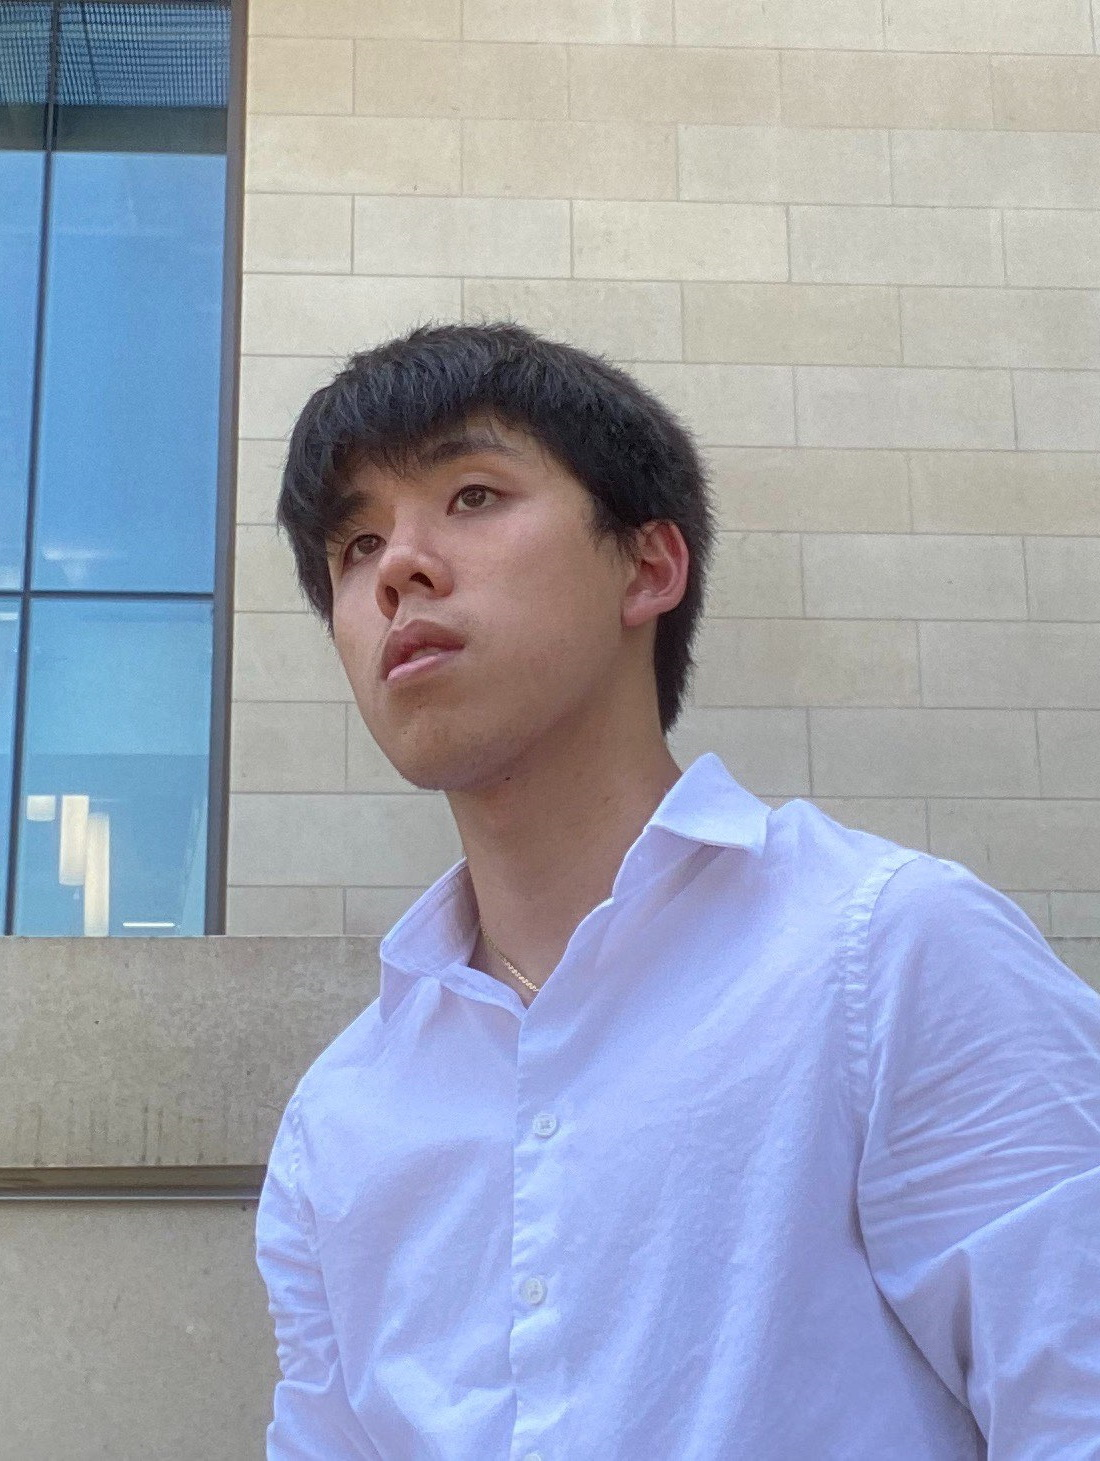
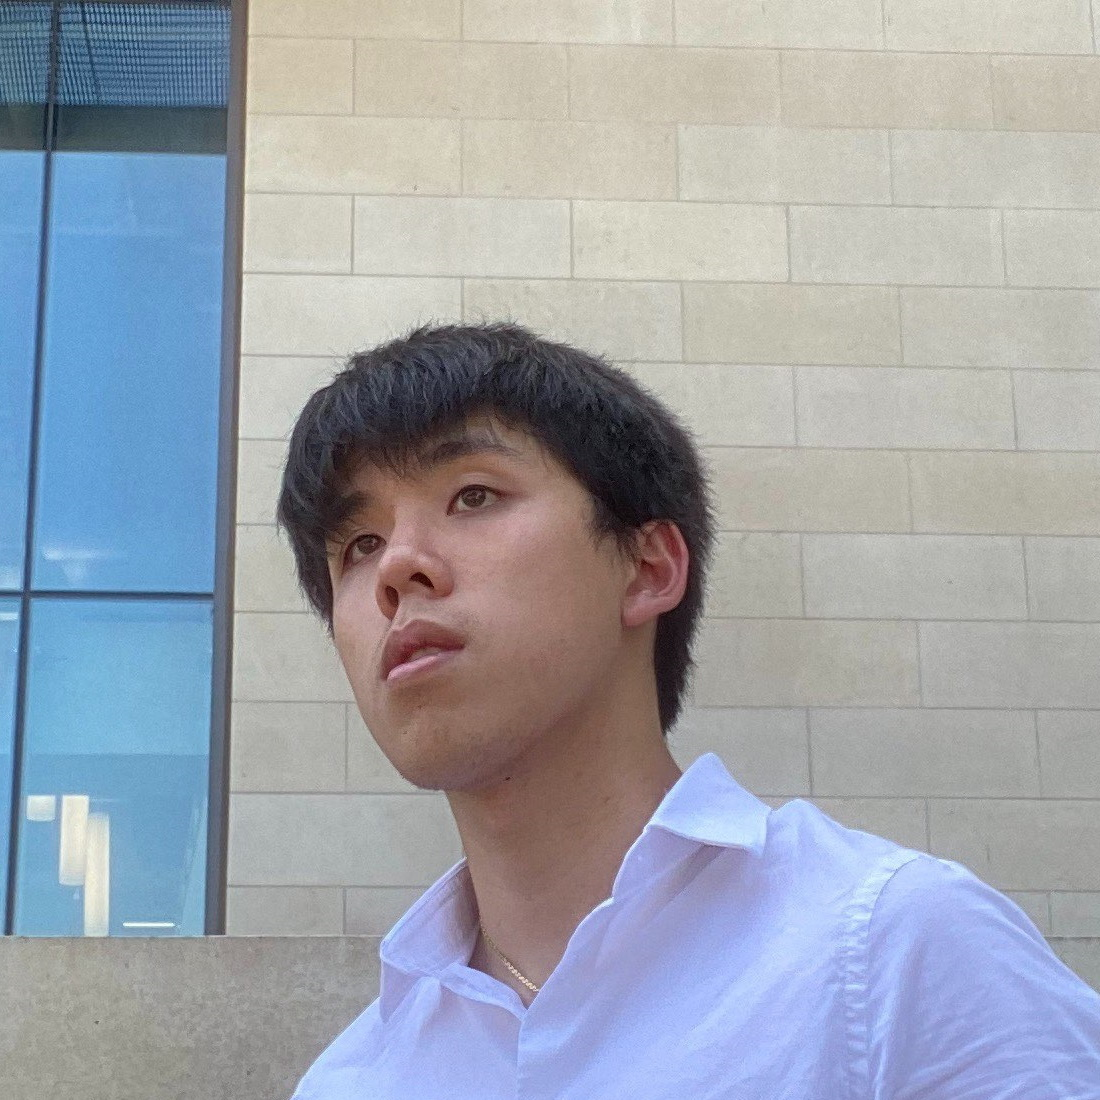
changed button and pic dim

diff --git a/index.html b/index.html
@@ -134,11 +134,14 @@
             <h2 class="section__heading">ABOUT ME</h2>
         </div>
         <div class="about-me__container">
+            <div class="about-me__para">
+                Hello! My name is Johnny Le. Lorem ipsum dolor sit amet, consectetur adipiscing elit, sed do eiusmod tempor incididunt ut labore et dolore magna aliqua. Ut enim ad minim veniam, quis nostrud exercitation ullamco laboris nisi ut aliquip ex ea commodo consequat. Duis aute irure dolor in reprehenderit in voluptate velit esse cillum dolore eu fugiat nulla pariatur. Excepteur sint occaecat cupidatat non proident, sunt in culpa qui officia deserunt mollit anim id est laborum.
+                <div class="about-me__btn">
+                    <a href="" class="primary-btn">RESUME</a>
+                </div>
+            </div>
             <div class="about-me__img">
                 <img src="img/profile.jpg" alt="Photo of Johnny Le">
-            </div>
-            <div class="about-me__para">
-                Hello! My name is Johnny Le
             </div>
         </div>
     </section>
@@ -154,7 +157,7 @@
                 <img src="img/pangubanner.png" alt="Picture of Pangu's Logo" class="project__img">
                 <div class="project__info">
                     <div class="project__info--title-links">
-                        <h3 class="project__info--title">Pangu</h3>
+                        <h3 class="project__info--title">Pangu (WIP)</h3>
                         <div class="project__info--links">
                             <a href="https://github.com/jwonnyleaf/Pangu" rel="noopener noreferrer" target="_blank">
                                 <svg class="project__info--icon" xmlns="http://www.w3.org/2000/svg" width="24" height="24" viewBox="0 0 24 24" fill="none" stroke="currentColor" stroke-width="2" stroke-linecap="round" stroke-linejoin="round" class="feather feather-external-link"><path d="M18 13v6a2 2 0 0 1-2 2H5a2 2 0 0 1-2-2V8a2 2 0 0 1 2-2h6"></path><polyline points="15 3 21 3 21 9"></polyline><line x1="10" y1="14" x2="21" y2="3"></line></svg>

diff --git a/css/style.css b/css/style.css
@@ -73,11 +73,13 @@ li {
 .primary-btn {
     font-family: "OpenSans";
     font-variation-settings: "wght" 800;
+    font-size: .9rem;
     background-color: transparent;
     color: var(--main-blue);
     border: 3px solid var(--main-blue);
     border-radius: 50px;
     padding: .7rem 1.3rem;
+    margin-top: 1.8rem;
     letter-spacing: 1px;
     cursor: pointer;
     -webkit-transition: all .5s;
@@ -190,9 +192,6 @@ li {
     max-width: 525px;
     margin: 15px 0 0 0;
 }
-.home__btn {
-    margin-top: 1.8rem;
-}
 
 
 /*
@@ -201,13 +200,12 @@ li {
 
 */
 .about-me__container {
-    display: flex;
-    align-items: center;
-    gap: 50px;
+    display: grid;
+    grid-template-columns: 2fr 1fr;
+    column-gap: 50px;
     height: 100%;
 }
 .about-me__img {
-    width: 300px;
     border-radius: 1rem;
     box-shadow: 0 0 15px 0 var(--dark-blue);
     overflow: hidden;
@@ -225,7 +223,12 @@ li {
 .about-me__img img:hover {
     transform: scale(1.25);
 }
-
+.about-me__para {
+    font-size: 1.5rem;
+}
+.about-me__btn {
+    margin-top: 1.8rem;
+}
 
 
 /*
